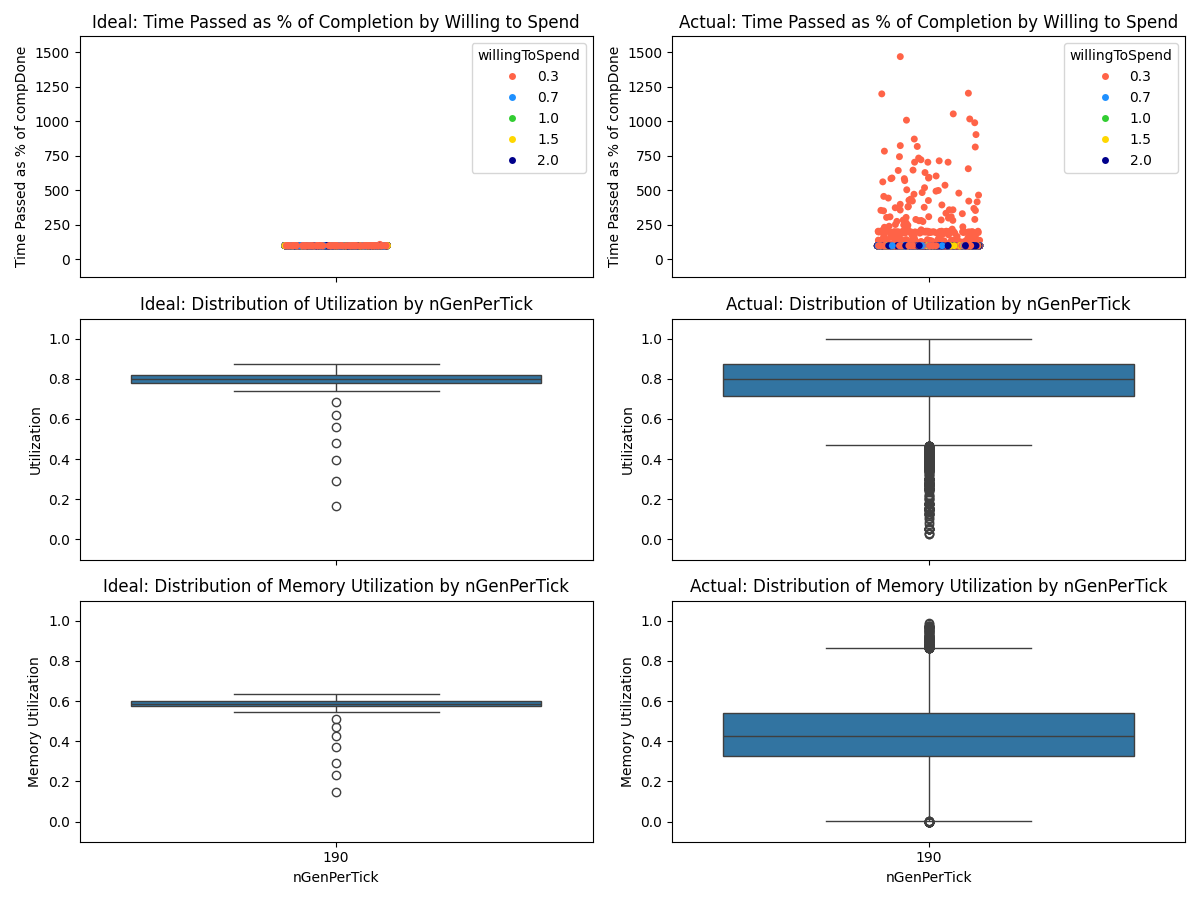
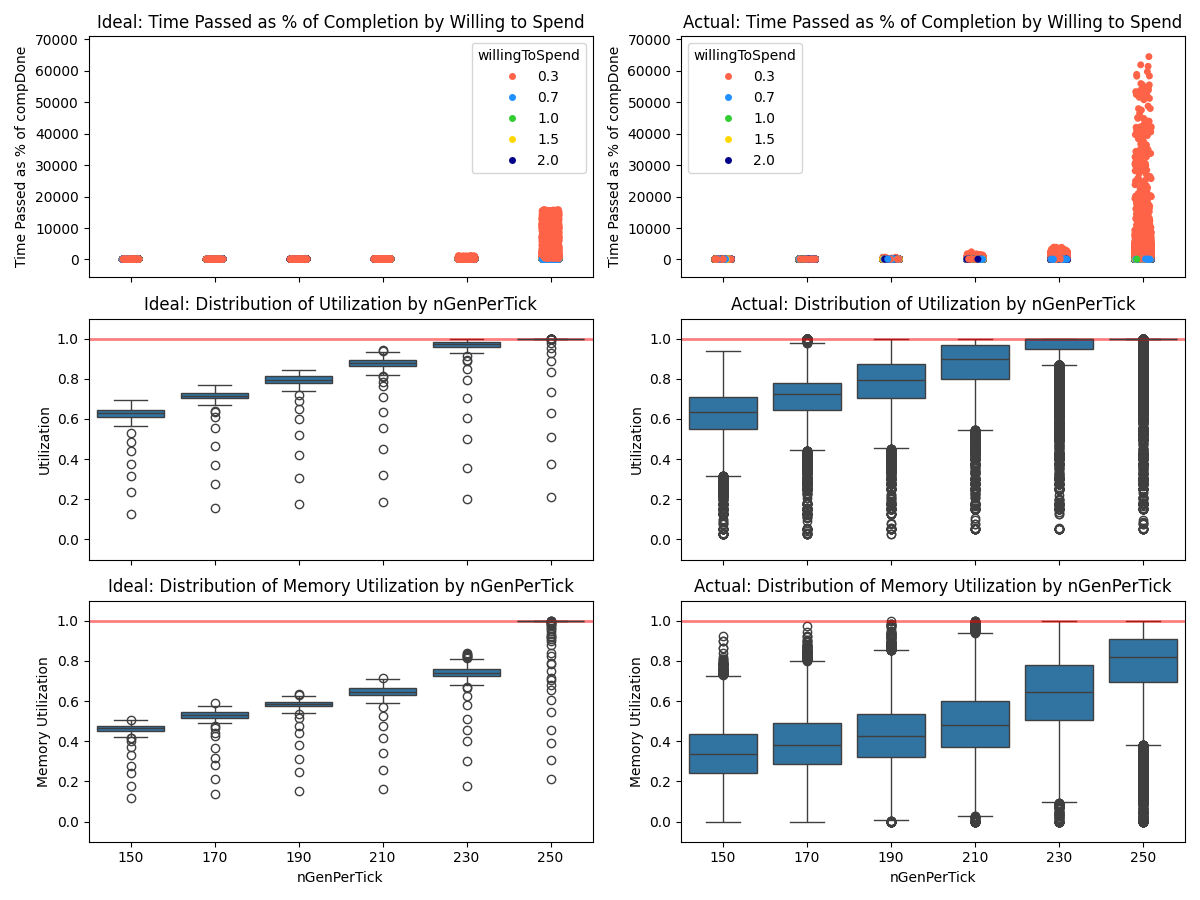
did a run, added a bar at 100% utilization

diff --git a/results/usage_plots.py b/results/usage_plots.py
@@ -48,6 +48,7 @@ sns.boxplot(data=ideal_usage_metrics, x="nGenPerTick", y="utilization", ax=ax[1,
 ax[1, 0].set_title("Ideal: Distribution of Utilization by nGenPerTick")
 ax[1, 0].set_xlabel("nGenPerTick")
 ax[1, 0].set_ylabel("Utilization")
+ax[1, 0].axhline(y=1, color='grey', linewidth=2, alpha=0.5)
 
 # 6. Third subplot: Strip plot for Time Passed as % of Completion for Actual data
 sns.stripplot(data=actual_procs_done, x="nGenPerTick", y="timeAsPercentage", hue="willingToSpend", 
@@ -62,6 +63,7 @@ sns.boxplot(data=actual_usage_metrics, x="nGenPerTick", y="utilization", ax=ax[1
 ax[1, 1].set_title("Actual: Distribution of Utilization by nGenPerTick")
 ax[1, 1].set_xlabel("nGenPerTick")
 ax[1, 1].set_ylabel("Utilization")
+ax[1, 1].axhline(y=1, color='grey', linewidth=2, alpha=0.5)
 
 # 8. Fifth subplot: Violin plot for Memory Utilization for Ideal data
 sns.boxplot(data=ideal_usage_metrics, x="nGenPerTick", y="mem_utilization", ax=ax[2, 0])
@@ -69,6 +71,7 @@ sns.boxplot(data=ideal_usage_metrics, x="nGenPerTick", y="mem_utilization", ax=a
 ax[2, 0].set_title("Ideal: Distribution of Memory Utilization by nGenPerTick")
 ax[2, 0].set_xlabel("nGenPerTick")
 ax[2, 0].set_ylabel("Memory Utilization")
+ax[2, 0].axhline(y=1, color='grey', linewidth=2, alpha=0.5)
 
 # 9. Sixth subplot: Violin plot for Memory Utilization for Actual data
 sns.boxplot(data=actual_usage_metrics, x="nGenPerTick", y="mem_utilization", ax=ax[2, 1])
@@ -76,6 +79,7 @@ sns.boxplot(data=actual_usage_metrics, x="nGenPerTick", y="mem_utilization", ax=
 ax[2, 1].set_title("Actual: Distribution of Memory Utilization by nGenPerTick")
 ax[2, 1].set_xlabel("nGenPerTick")
 ax[2, 1].set_ylabel("Memory Utilization")
+ax[2, 1].axhline(y=1, color='grey', linewidth=2, alpha=0.5)
 
 # Set the same y-axis limits for each row (ideal and actual)
 # For Time Passed as % of Completion (Ideal and Actual)

diff --git a/run_test.go b/run_test.go
@@ -13,8 +13,8 @@ const (
 	N_CORES_PER_MACHINE = 8
 
 	// this is overall
-	N_PROCS_GEN_PER_TICK_START = 190
-	N_PROCS_GEN_PER_TICK_END   = 190
+	N_PROCS_GEN_PER_TICK_START = 150
+	N_PROCS_GEN_PER_TICK_END   = 250
 )
 
 func TestRunWorld(t *testing.T) {
